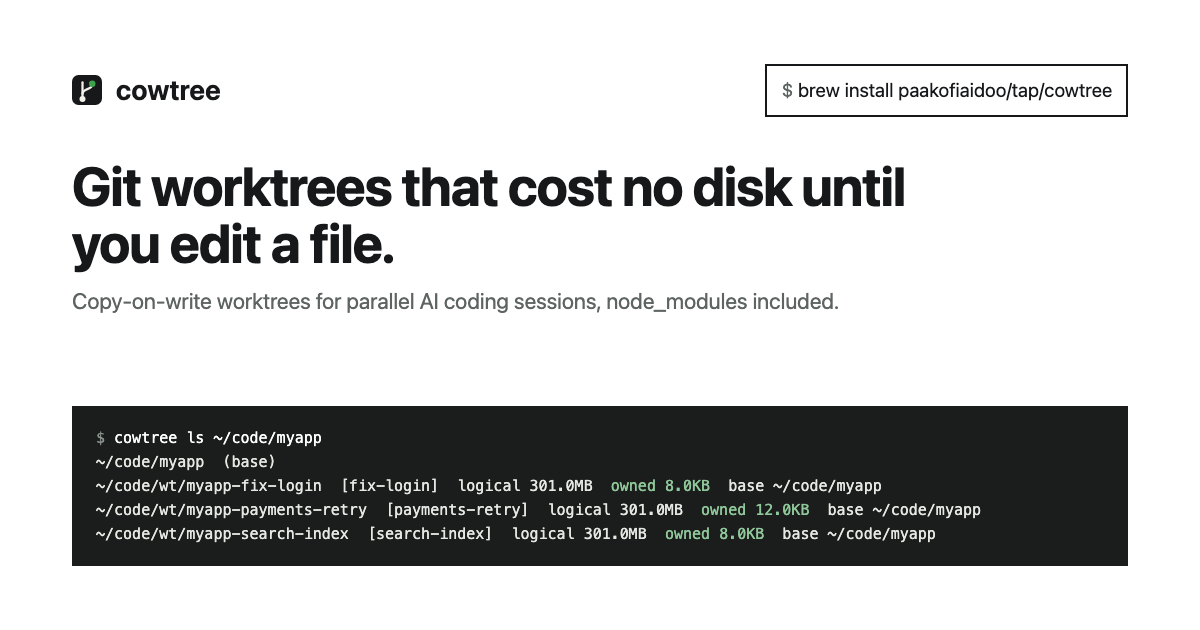
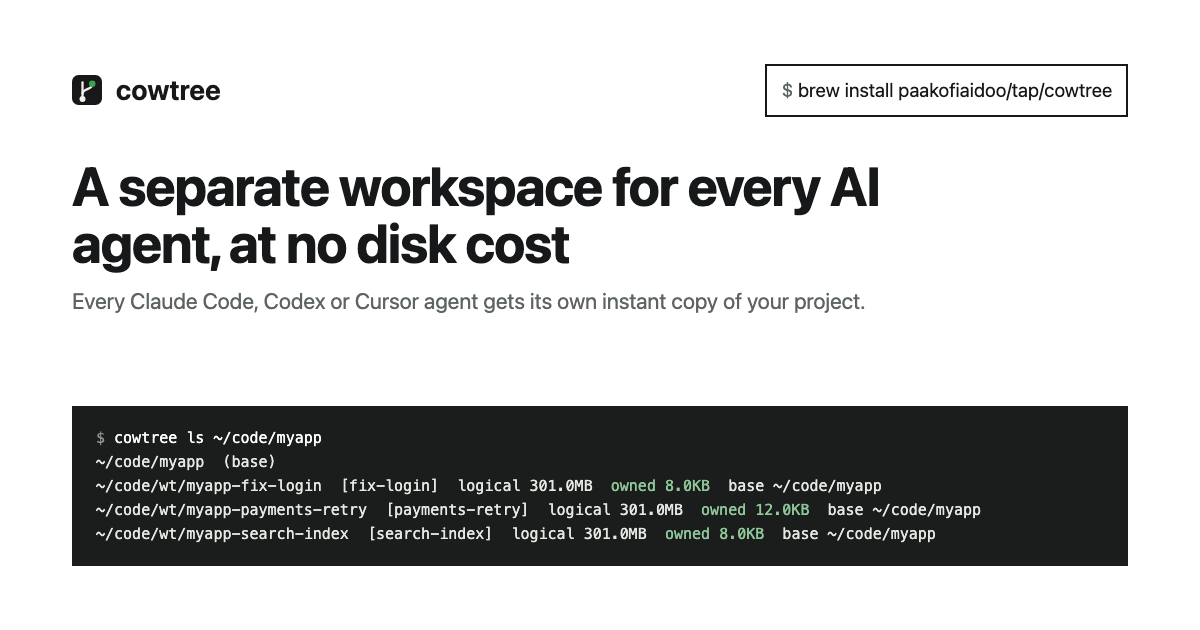
Plain-language tagline on the site, images, README and launch kit (#5)
Assisted-by: Claude Opus 5.5

Changed region(s): [[0.0617, 0.2413, 0.7708, 0.5127]]

diff --git a/site/index.html b/site/index.html
@@ -3,22 +3,23 @@
 <head>
 <meta charset="utf-8">
 <meta name="viewport" content="width=device-width, initial-scale=1">
-<title>cowtree — copy-on-write git worktrees for parallel AI coding sessions</title>
-<meta name="description" content="cowtree makes git worktrees out of APFS clonefile copies of your checkout, node_modules included. Run many Claude Code, Codex or Cursor sessions on one repo at near-zero disk cost.">
+<title>cowtree — A separate workspace for every AI agent, at no disk cost</title>
+<meta name="description" content="Running several AI coding agents on one project? They overwrite each other&#39;s files, or each needs a full copy of your code. cowtree gives every agent its own instant copy that uses almost no disk. Works with Claude Code, Codex and Cursor. Free, open source.">
+<meta name="keywords" content="AI coding agents, parallel AI sessions, Claude Code, Codex, Cursor, git worktree, copy-on-write, APFS clonefile, reflink, MCP server, developer tools">
 <link rel="canonical" href="https://paakofiaidoo.github.io/cowtree/">
 <meta name="theme-color" content="#ffffff">
 <meta property="og:type" content="website">
 <meta property="og:site_name" content="cowtree">
-<meta property="og:title" content="cowtree — copy-on-write git worktrees">
-<meta property="og:description" content="One checkout, as many worktrees as you have sessions. Each costs disk only for the files it changes. CLI, Homebrew, Claude Code plugin and MCP server. MIT.">
+<meta property="og:title" content="cowtree — A separate workspace for every AI agent, at no disk cost">
+<meta property="og:description" content="Running several AI coding agents on one project? They overwrite each other&#39;s files, or each needs a full copy of your code. cowtree gives every agent its own instant copy that uses almost no disk. Works with Claude Code, Codex and Cursor. Free, open source.">
 <meta property="og:url" content="https://paakofiaidoo.github.io/cowtree/">
 <meta property="og:image" content="https://paakofiaidoo.github.io/cowtree/img/og.png">
 <meta property="og:image:width" content="1200">
 <meta property="og:image:height" content="630">
 <meta property="og:image:alt" content="cowtree ls output: three worktrees of a 301 MB checkout, each owning a few kilobytes">
 <meta name="twitter:card" content="summary_large_image">
-<meta name="twitter:title" content="cowtree — copy-on-write git worktrees">
-<meta name="twitter:description" content="Run many AI coding sessions on one repo without a full checkout each. APFS clonefile worktrees, node_modules included. MIT.">
+<meta name="twitter:title" content="cowtree — A separate workspace for every AI agent, at no disk cost">
+<meta name="twitter:description" content="Running several AI coding agents on one project? They overwrite each other&#39;s files, or each needs a full copy of your code. cowtree gives every agent its own instant copy that uses almost no disk. Works with Claude Code, Codex and Cursor. Free, open source.">
 <meta name="twitter:image" content="https://paakofiaidoo.github.io/cowtree/img/og.png">
 <link rel="icon" href="favicon.svg" type="image/svg+xml">
 <link rel="apple-touch-icon" href="img/logo-512.png">
@@ -27,7 +28,7 @@
   "@context": "https://schema.org",
   "@type": "SoftwareApplication",
   "name": "cowtree",
-  "description": "Copy-on-write git worktrees for parallel AI coding sessions and humans, built on APFS clonefile (reflink on btrfs/XFS).",
+  "description": "Running several AI coding agents on one project? They overwrite each other's files, or each needs a full copy of your code. cowtree gives every agent its own instant copy that uses almost no disk. Works with Claude Code, Codex and Cursor. Free, open source. Under the hood: git worktrees built from copy-on-write clones (APFS clonefile, reflink on btrfs/XFS).",
   "url": "https://paakofiaidoo.github.io/cowtree/",
   "applicationCategory": "DeveloperApplication",
   "operatingSystem": "macOS, Linux",
@@ -63,6 +64,7 @@ nav.top a:hover{color:var(--moss)}
 .hero{padding:72px 0 64px}
 .hero-top{display:grid;grid-template-columns:1.25fr 1fr;gap:48px;align-items:end;margin-bottom:40px}
 .hero-top .lede{margin-bottom:0}
+.under{font-size:15px;color:var(--muted);margin:14px 0 0}
 h1{font-size:52px;line-height:1.08;letter-spacing:-.02em;margin:0 0 20px;font-weight:700}
 .lede{font-size:19px;color:var(--muted);margin:0 0 28px;max-width:34em}
 .cmd{display:flex;align-items:stretch;border:1px solid var(--ink);margin:0 0 10px;background:var(--paper)}
@@ -157,14 +159,15 @@ footer p.small{font-size:13px;margin-top:6px}
   <div class="hero">
     <div class="hero-top">
       <div>
-      <h1>Git worktrees that cost no disk until you edit a file.</h1>
-      <p class="lede">cowtree builds each worktree out of APFS <code>clonefile</code> copies of your checkout, <code>node_modules</code> and build directories included. Run five Claude Code, Codex or Cursor sessions on one repo, one branch each, without five copies of it.</p>
+      <h1>A separate workspace for every AI agent, at no disk cost</h1>
+      <p class="lede">Running several AI coding agents on one project? They overwrite each other&#39;s files, or each needs a full copy of your code. cowtree gives every agent its own instant copy that uses almost no disk. Works with Claude Code, Codex and Cursor. Free, open source.</p>
+      <p class="under">Under the hood: git worktrees built from copy-on-write clones (APFS <code>clonefile</code>), <code>node_modules</code> and build directories included.</p>
       </div>
       <div>
       <div class="cmd"><code id="c1">brew install paakofiaidoo/tap/cowtree</code><button type="button" data-copy="c1">Copy</button></div>
       <div class="cmd alt"><code id="c2">curl -fsSL https://raw.githubusercontent.com/paakofiaidoo/cowtree/main/install.sh | bash</code><button type="button" data-copy="c2">Copy</button></div>
       <p class="meta">Version 0.5.0, MIT licensed. Runs on macOS (APFS) and on Linux with btrfs, XFS or bcachefs. <a href="https://github.com/paakofiaidoo/cowtree/releases">Release notes</a>.</p>
-      <a class="ph" href="https://www.producthunt.com/products/cowtree?embed=true&amp;utm_source=badge-featured&amp;utm_medium=badge&amp;utm_campaign=badge-cowtree" target="_blank" rel="noopener"><img src="https://api.producthunt.com/widgets/embed-image/v1/featured.svg?post_id=1321057&amp;theme=light" alt="cowtree - Git worktrees that cost no disk until you edit a file | Product Hunt" width="250" height="54"></a>
+      <a class="ph" href="https://www.producthunt.com/products/cowtree?embed=true&amp;utm_source=badge-featured&amp;utm_medium=badge&amp;utm_campaign=badge-cowtree" target="_blank" rel="noopener"><img src="https://api.producthunt.com/widgets/embed-image/v1/featured.svg?post_id=1321057&amp;theme=light" alt="cowtree - A separate workspace for every AI agent, at no disk cost | Product Hunt" width="250" height="54"></a>
       </div>
     </div>
     <figure style="margin:0">
@@ -373,7 +376,7 @@ deleted merged branch fix-login</pre>
       <p>cowtree is MIT licensed. Made by <a href="https://github.com/paakofiaidoo">Paa Kofi Aidoo</a>.</p>
       <p class="small">This site counts visits with <a href="https://www.goatcounter.com/help/privacy">GoatCounter</a>: no cookies, no personal data.</p>
     </div>
-    <a class="ph" href="https://www.producthunt.com/products/cowtree?embed=true&amp;utm_source=badge-featured&amp;utm_medium=badge&amp;utm_campaign=badge-cowtree" target="_blank" rel="noopener"><img src="https://api.producthunt.com/widgets/embed-image/v1/featured.svg?post_id=1321057&amp;theme=light" alt="cowtree - Git worktrees that cost no disk until you edit a file | Product Hunt" width="250" height="54" loading="lazy"></a>
+    <a class="ph" href="https://www.producthunt.com/products/cowtree?embed=true&amp;utm_source=badge-featured&amp;utm_medium=badge&amp;utm_campaign=badge-cowtree" target="_blank" rel="noopener"><img src="https://api.producthunt.com/widgets/embed-image/v1/featured.svg?post_id=1321057&amp;theme=light" alt="cowtree - A separate workspace for every AI agent, at no disk cost | Product Hunt" width="250" height="54" loading="lazy"></a>
     <nav aria-label="Footer"><a href="https://github.com/paakofiaidoo/cowtree">GitHub</a><a href="https://github.com/paakofiaidoo/cowtree/releases">Releases</a><a href="https://github.com/paakofiaidoo/cowtree/issues">Issues</a></nav>
   </div>
 </footer>

diff --git a/docs/launch/src/1-hero.html b/docs/launch/src/1-hero.html
@@ -1,6 +1,6 @@
 <!doctype html><meta charset="utf-8"><link rel="stylesheet" href="base.css"><body><div style="display:flex;justify-content:space-between;align-items:center"><div class="mark"><svg width="30" height="30" viewBox="0 0 240 240"><rect width="240" height="240" rx="52" fill="#16181a"/><path d="M84 190V58" stroke="#f4f1ea" stroke-width="18" stroke-linecap="round" fill="none"/><path d="M84 150c0-44 78-30 78-74" stroke="#f4f1ea" stroke-width="18" stroke-linecap="round" fill="none"/><circle cx="84" cy="192" r="24" fill="#f4f1ea"/><circle cx="162" cy="70" r="26" fill="#3fa34d"/></svg> cowtree</div><span class="cmd">brew install paakofiaidoo/tap/cowtree</span></div>
-<h1 style="margin-top:52px;font-size:60px;max-width:15em">Git worktrees that cost no disk until you edit a file.</h1>
-<p class="muted" style="margin-top:18px;font-size:23px">Run five Claude Code, Codex or Cursor sessions on one repo, one branch each, without five copies of it.</p>
+<h1 style="margin-top:52px;font-size:60px;max-width:15em">A separate workspace for every AI agent, at no disk cost</h1>
+<p class="muted" style="margin-top:18px;font-size:23px">Every Claude Code, Codex or Cursor agent gets its own instant copy of your project. Under the hood: copy-on-write git worktrees.</p>
 <pre class="term" style="margin-top:40px;font-size:16px"><span class="p">$</span> <span class="c">cowtree ls ~/code/myapp</span>
 ~/code/myapp  (base)
 ~/code/wt/myapp-fix-login  [fix-login]  logical 301.0MB  <span class="g">owned 8.0KB</span>  base ~/code/myapp

diff --git a/docs/launch/src/og.html b/docs/launch/src/og.html
@@ -1,6 +1,6 @@
 <!doctype html><meta charset="utf-8"><link rel="stylesheet" href="base.css"><body><div style="display:flex;justify-content:space-between;align-items:center"><div class="mark"><svg width="30" height="30" viewBox="0 0 240 240"><rect width="240" height="240" rx="52" fill="#16181a"/><path d="M84 190V58" stroke="#f4f1ea" stroke-width="18" stroke-linecap="round" fill="none"/><path d="M84 150c0-44 78-30 78-74" stroke="#f4f1ea" stroke-width="18" stroke-linecap="round" fill="none"/><circle cx="84" cy="192" r="24" fill="#f4f1ea"/><circle cx="162" cy="70" r="26" fill="#3fa34d"/></svg> cowtree</div><span class="cmd" style="font-size:19px;padding:10px 14px">brew install paakofiaidoo/tap/cowtree</span></div>
-<h1 style="margin-top:40px;max-width:16em">Git worktrees that cost no disk until you edit a file.</h1>
-<p class="muted" style="margin-top:14px;font-size:22px">Copy-on-write worktrees for parallel AI coding sessions, node_modules included.</p>
+<h1 style="margin-top:40px;max-width:16em">A separate workspace for every AI agent, at no disk cost</h1>
+<p class="muted" style="margin-top:14px;font-size:22px">Every Claude Code, Codex or Cursor agent gets its own instant copy of your project.</p>
 <pre class="term" style="margin-top:auto;font-size:15px;padding:20px 24px"><span class="p">$</span> <span class="c">cowtree ls ~/code/myapp</span>
 ~/code/myapp  (base)
 ~/code/wt/myapp-fix-login  [fix-login]  logical 301.0MB  <span class="g">owned 8.0KB</span>  base ~/code/myapp

diff --git a/README.md b/README.md
@@ -6,11 +6,13 @@
 [![release](https://img.shields.io/github/v/release/paakofiaidoo/cowtree)](https://github.com/paakofiaidoo/cowtree/releases)
 [![license](https://img.shields.io/badge/license-MIT-blue.svg)](LICENSE)
 
-<a href="https://www.producthunt.com/products/cowtree?embed=true&utm_source=badge-featured&utm_medium=badge&utm_campaign=badge-cowtree" target="_blank" rel="noopener"><img src="https://api.producthunt.com/widgets/embed-image/v1/featured.svg?post_id=1321057&theme=light" alt="cowtree - Git worktrees that cost no disk until you edit a file | Product Hunt" width="250" height="54"></a>
+<a href="https://www.producthunt.com/products/cowtree?embed=true&utm_source=badge-featured&utm_medium=badge&utm_campaign=badge-cowtree" target="_blank" rel="noopener"><img src="https://api.producthunt.com/widgets/embed-image/v1/featured.svg?post_id=1321057&theme=light" alt="cowtree - A separate workspace for every AI agent, at no disk cost | Product Hunt" width="250" height="54"></a>
 
 Website: https://paakofiaidoo.github.io/cowtree/
 
-**Copy-on-write git worktrees.** One checkout per repo, as many parallel worktrees as you need, each costing
+**A separate workspace for every AI agent, at no disk cost.** Running several AI coding agents on one project? They overwrite each other's files, or each needs a full copy of your code. cowtree gives every agent its own instant copy that uses almost no disk. Works with Claude Code, Codex and Cursor. Free, open source.
+
+Under the hood: **copy-on-write git worktrees.** One checkout per repo, as many parallel worktrees as you need, each costing
 disk only for the files it changes. Built for AI coding sessions (Claude Code, Codex, Cursor, aider) that want
 to work on several branches or PRs of the same repository at the same time, and just as usable by humans in
 VS Code.

diff --git a/docs/launch/product-hunt.md b/docs/launch/product-hunt.md
@@ -11,7 +11,7 @@ rather than rank alone.
 | Field | Value |
 |---|---|
 | Name | `cowtree` |
-| Tagline (53/60) | `Git worktrees that cost no disk until you edit a file` |
+| Tagline (56/60) | `A separate workspace for every AI agent, at no disk cost` |
 | Link | `https://paakofiaidoo.github.io/cowtree/` |
 | GitHub | `https://github.com/paakofiaidoo/cowtree` |
 | Pricing | Free (open source, MIT) |
@@ -19,9 +19,9 @@ rather than rank alone.
 | Thumbnail (240×240) | `docs/launch/gallery/thumbnail.png` |
 | Shoutouts | Claude Code, Git, Homebrew |
 
-**Description (237/260)**
+**Description (257/260)**
 
-> Git worktrees made of APFS clonefile copies of your checkout, node_modules included. Run many Claude Code, Codex or Cursor sessions on one repo at near-zero disk cost; clear resets build files to the base. CLI, Homebrew, MCP server. MIT.
+> Running several AI coding agents on one project? They overwrite each other's files, or each needs a full copy of your code. cowtree gives every agent its own instant copy that uses almost no disk. Works with Claude Code, Codex and Cursor. Free, open source.
 
 ## Gallery (1270×760, in this order)
 
